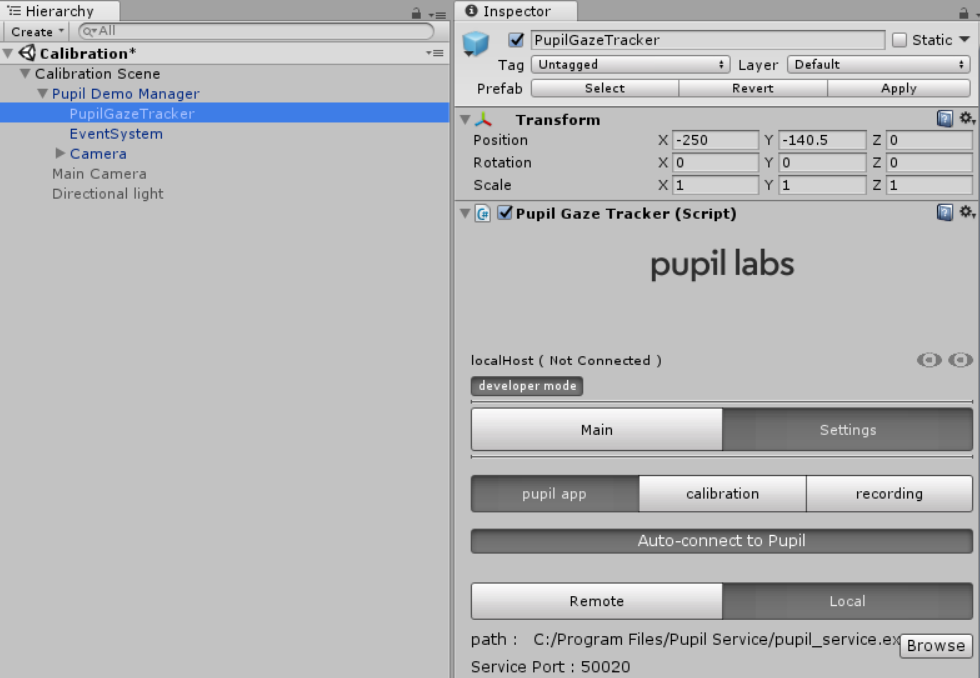
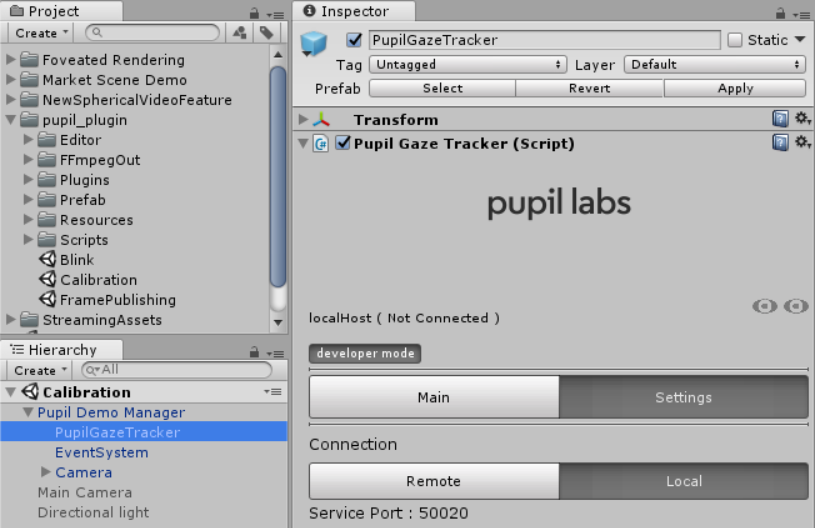
Updating docs for recent clean-up (removing auto-connect, restructuring calibration settings) Also updated "Frame Publishing" section

diff --git a/developer-docs/unity.md b/developer-docs/unity.md
@@ -53,7 +53,7 @@ The Unity scene `pupil_plugin/Calibration.unity`, which is included in both proj
 
 **In case of VR, two things are important for the initial steps**
 
-- The `PupilGazeTracker` gameobject offers an Inspector GUI to set how to communicate with Pupil Capture/Service. Either can run on the same `Local` computer or on a `Remote` PC. On local PCs, you have the option to let Unity start Pupil Capture/Service by setting the `Path` to the executable (click the `Browse` button). 
+- The `PupilGazeTracker` gameobject offers an Inspector GUI to set how to communicate with Pupil Capture/Service. Either can run on the same `Local` computer or on a `Remote` PC.
 
 ![Pupil Gaze Tracker](https://github.com/AndreNicolai/pupil-docs/blob/master/images/unity/PupilGazeTracker.png)
 
@@ -77,7 +77,7 @@ The Unity scene `pupil_plugin/Calibration.unity`, which is included in both proj
 
 ### Pupil Capture/Service setup 
 
-My personal recommendation is to start development with Pupil Capture, as it gives the most options for feedback if things are not set correctly or if something goes wrong. Once everything is working as intended, Pupil Service is a good solution to minimize the windows on screen. In our case, one or two eye windows, depending on your setup 
+As of late February 2018 and with release version 0.5, either Pupil Capture or Pupil Service needs to be started by the user. (Before, it was possible to let Unity do this automatically by setting the path to the corresponding executable.) My personal recommendation is to start development with Pupil Capture, as it gives the most options for feedback if things are not set correctly or if something goes wrong. Once everything is working as intended, Pupil Service is a good solution to minimize complexity on screen. In our case, one or two eye windows depending on your setup plus the new Service GUI
 
 
 ![Eye Window](https://github.com/AndreNicolai/pupil-docs/blob/master/images/unity/EyeWindow.png)
@@ -112,11 +112,13 @@ Go to `pupil_plugin/PupilSettings` and select `Calibration`
 
 - `Points` defines the number of points per circle, the first being in the center of it. 
 
-- `Vector Depth Radius Scale` can be adapted to define the dimension of the circle 
+- `Marker Scale` determines the size of the calibration marker on screen 
 
-	- 2D calibration: We place the markers based on viewport coordinates, starting at the center position (0.5,0.5). Depth translates to the distance from the camera at which marker is placed. Radius defines the distance from the center point (in viewport space). Scale determines the size of the marker. 
+- `Vector Depth Radius` can be adapted to define the dimension of the circle 
 
-    - 3D calibration: We place the markers based on XYZ coordinates in local camera space. As we need to calibrate for depth, as well, we have multiple distances at which the circle pattern is applied. In the standard case at a distance of `1`, `5` and 10`. Radius defines the XY distance from the current center point (0,0,Depth). Scale determines the size of the marker at that depth. 
+	- 2D calibration: We place the markers based on viewport coordinates, starting at the center position (0.5,0.5). Depth translates to the distance from the camera at which marker is placed. Radius defines the distance from the center point (in viewport space).
+
+    - 3D calibration: We place the markers based on XYZ coordinates in local camera space. As we need to calibrate for depth, as well, we have multiple distances at which the circle pattern is applied. In the standard case at a distance of `0.6`, `1` and `2`. Radius defines the XY distance from the current center point (0,0,Depth).
 
 - `Samples Per Depth` defines the amount of calibration points recorder for each marker position. We reduced this number for 3D calibration to a third of the samples of 2D calibration so it takes the same duration of time. 
 
@@ -138,13 +140,13 @@ Excluding the Blink Unity scene, every other demo contains the PupilDemoManager 
 
 After a successful calibration, you need to call `PupilTools.Subscribe(string topic)` to receive messages for the `topic` you specify. Most of the demos included in this project are based on subscribing to `gaze` and its implementation shall serve as an example on how to do it for other topics. Message interpretation is handled inside the code block starting in line 127 of `Connection.cs`. Pupil messages for the `gaze` topic contain dictionaries, which are deserialized using the `MessagePackSerializer` classes (line 167) and stored to `PupilTools.gazeDictionary`. `PupilTools.UpdateGaze()` goes through the data, storing relevant information (e.g. the gaze positions) through `PupilData.AddGazeToEyeData(string key, float[] position)`. Based on the chosen calibration type, this can either be 2D or 3D. To access the data, use 
 
-- `PupilData._2D.GetEyeGaze (PupilData.GazeSource s)`, which will provide the current viewport coordinates in camera space (used e.g. for the three colored markers) 
+- `PupilData._2D.LeftEyePosition`, `PupilData._2D.RightEyePosition` or `PupilData._2D.GazePosition`, which will provide the current viewport coordinates in camera space for the respective eye (used e.g. for the three colored markers) 
 
-- `PupilData._2D.GetEyePosition (Camera sceneCamera, GazeSource gazeSource)`, which will apply an additional frustum center offset for each eye (used e.g. for the shader implementations) 
+- `PupilData._2D.GetEyePosition (Camera sceneCamera, int eyeID)`, which will apply an additional frustum center offset for each eye (used e.g. for the shader implementations) 
 
 - `PupilData._3D.GazePosition`, which contains the camera relative gaze position 
 
-As the 3D calibration is currently still under active development, it is recommended to rely on 2D calibration, for now. Unity provides methods to convert 2D viewport coordinates to 3D, which is e.g. used for marker positioning 
+Working with 2D calibration and viewport coordinates, Unity provides methods to translate these to 3D space, which is e.g. used for marker positioning 
 
 - `PupilMarker.UpdatePosition(Vector2 newPosition)`, line 56 
 
@@ -175,7 +177,7 @@ A barebones implementation for users who do not need gaze data or want a simple 
 
 **Frame Publishing**
 
-Another quick-to-read, all-in-one-script example, this time for accessing Pupil eye camera images through the Unity plugin. Have a look at `FramePublishingDemoManager.cs` - which replaced the old `Operator Monitor` implementation - for more details. Much like the Blink demo, this also does not require to go through the calibration process.
+The `Frame Publishing` implementation (which replaced the old `Operator Monitor`) in another example of a single script encompassing all elements of communication with Pupil - this time for subscribing to eye images. Much like the Blink demo, it also does not require to go through the calibration process.
 
 
 ![Frame Publishing Demo](https://github.com/AndreNicolai/pupil-docs/blob/master/images/unity/FramePublishing.png)
